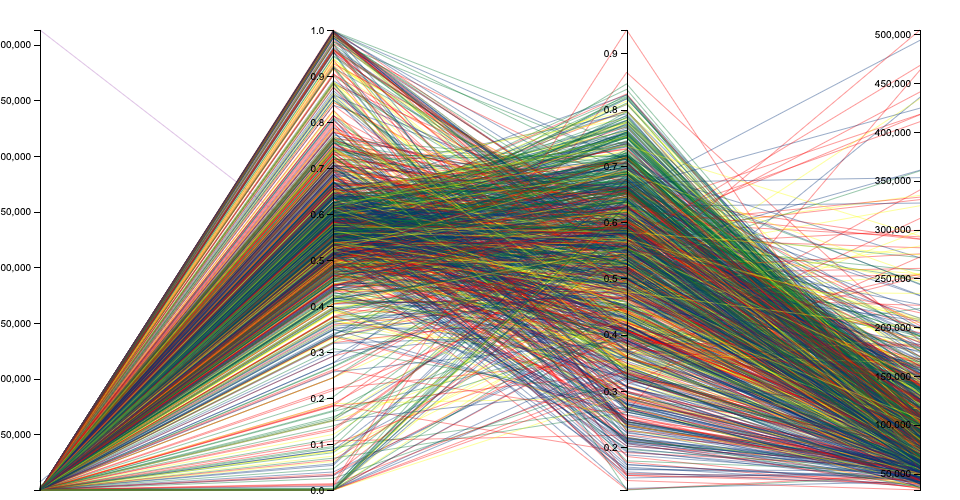
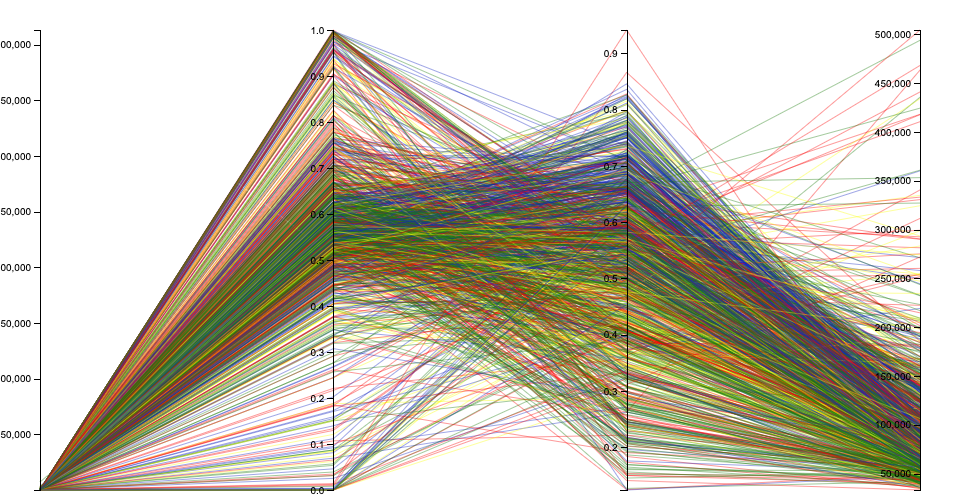
add image and chart size and adjust legend, TODO://license of dataset

Changed region(s): [[0.0312, 0.06, 0.9688, 0.99], [0.9062, 0.48, 0.9375, 0.51], [0.875, 0.36, 0.9062, 0.39]]

diff --git a/chart.js b/chart.js
@@ -34,7 +34,7 @@ let drawParallelPlotChart = function(data){
   // Build the X scale -> it find the best position for each Y axis
   x = d3.scalePoint()
     .range([0, width])
-    .padding(1)
+    .padding(0.35)
     .domain(dimensions)
 
   // The path function take a row of the csv as input, and return x and y coordinates of the line to draw for this raw.
@@ -50,30 +50,30 @@ let drawParallelPlotChart = function(data){
   //legends
       svg.append("text")
         .attr("class", "text")
-        .attr("x", width - 120)
+        .attr("x", width - 60)
         .attr("y", margin.top)
         .text("Region")
         .attr("alignment-baseline","middle")
       svg.append("rect")
-        .attr("x", width - 120)
+        .attr("x", width - 60)
         .attr("y", margin.top /2 + 20)
         .attr("width", 15)
         .attr("height", 15)
         .style("fill", "red")
       svg.append("rect")
-          .attr("x", width - 120)
+          .attr("x", width - 60)
           .attr("y", margin.top + margin.right + 20)
           .attr("width", 15)
           .attr("height", 15)
           .style("fill", "blue")
       svg.append("rect")
-          .attr("x", width - 120)
+          .attr("x", width - 60)
           .attr("y", margin.top + margin.right + 40)
           .attr("width", 15)
           .attr("height", 15)
           .style("fill", "green")
       svg.append("rect")
-          .attr("x", width - 120)
+          .attr("x", width - 60)
           .attr("y", margin.top + margin.right + 60)
           .attr("width", 15)
           .attr("height", 15)
@@ -82,32 +82,32 @@ let drawParallelPlotChart = function(data){
           //text for legend
       svg.append("text")
       .attr("class", "legend-text")
-      .attr("x", width - 100)
+      .attr("x", width - 40)
       .attr("y", margin.top/2 + 30)
       .text("1-Northeast")
       .attr("alignment-baseline","middle")
       svg
       .append("text")
       .attr("class", "legend-text")
-      .attr("x", width - 100)
+      .attr("x", width - 40)
       .attr("y", margin.top + margin.right + 30)
       .text("2-Midwest")
       .attr("alignment-baseline","middle")
       svg
       .append("text")
       .attr("class", "legend-text")
-      .attr("x", width - 100)
+      .attr("x", width - 40)
       .attr("y", margin.top + margin.right + 50)
       .text("3-South")
       .attr("alignment-baseline","middle")
       svg
       .append("text")
       .attr("class", "legend-text")
-      .attr("x", width - 100)
+      .attr("x", width - 40)
       .attr("y", margin.top + margin.right + 70)
       .text("4-West")
       .attr("alignment-baseline","middle")
-      
+
     // Draw the lines
   svg
     .selectAll("myPath")
@@ -125,7 +125,7 @@ let drawParallelPlotChart = function(data){
     .data(dimensions).enter()
     .append("g")
     // I translate this element to its right position on the x axis
-    .attr("transform", function(d) { return "translate(" + x(d) + "," + margin.top + ")"; })
+    .attr("transform", function(d) { return translate(x(d), margin.top); })
     // And I build the axis with the call function
     .each(function(d) { d3.select(this).call(d3.axisLeft().scale(y[d])); })
     // Add axis title
